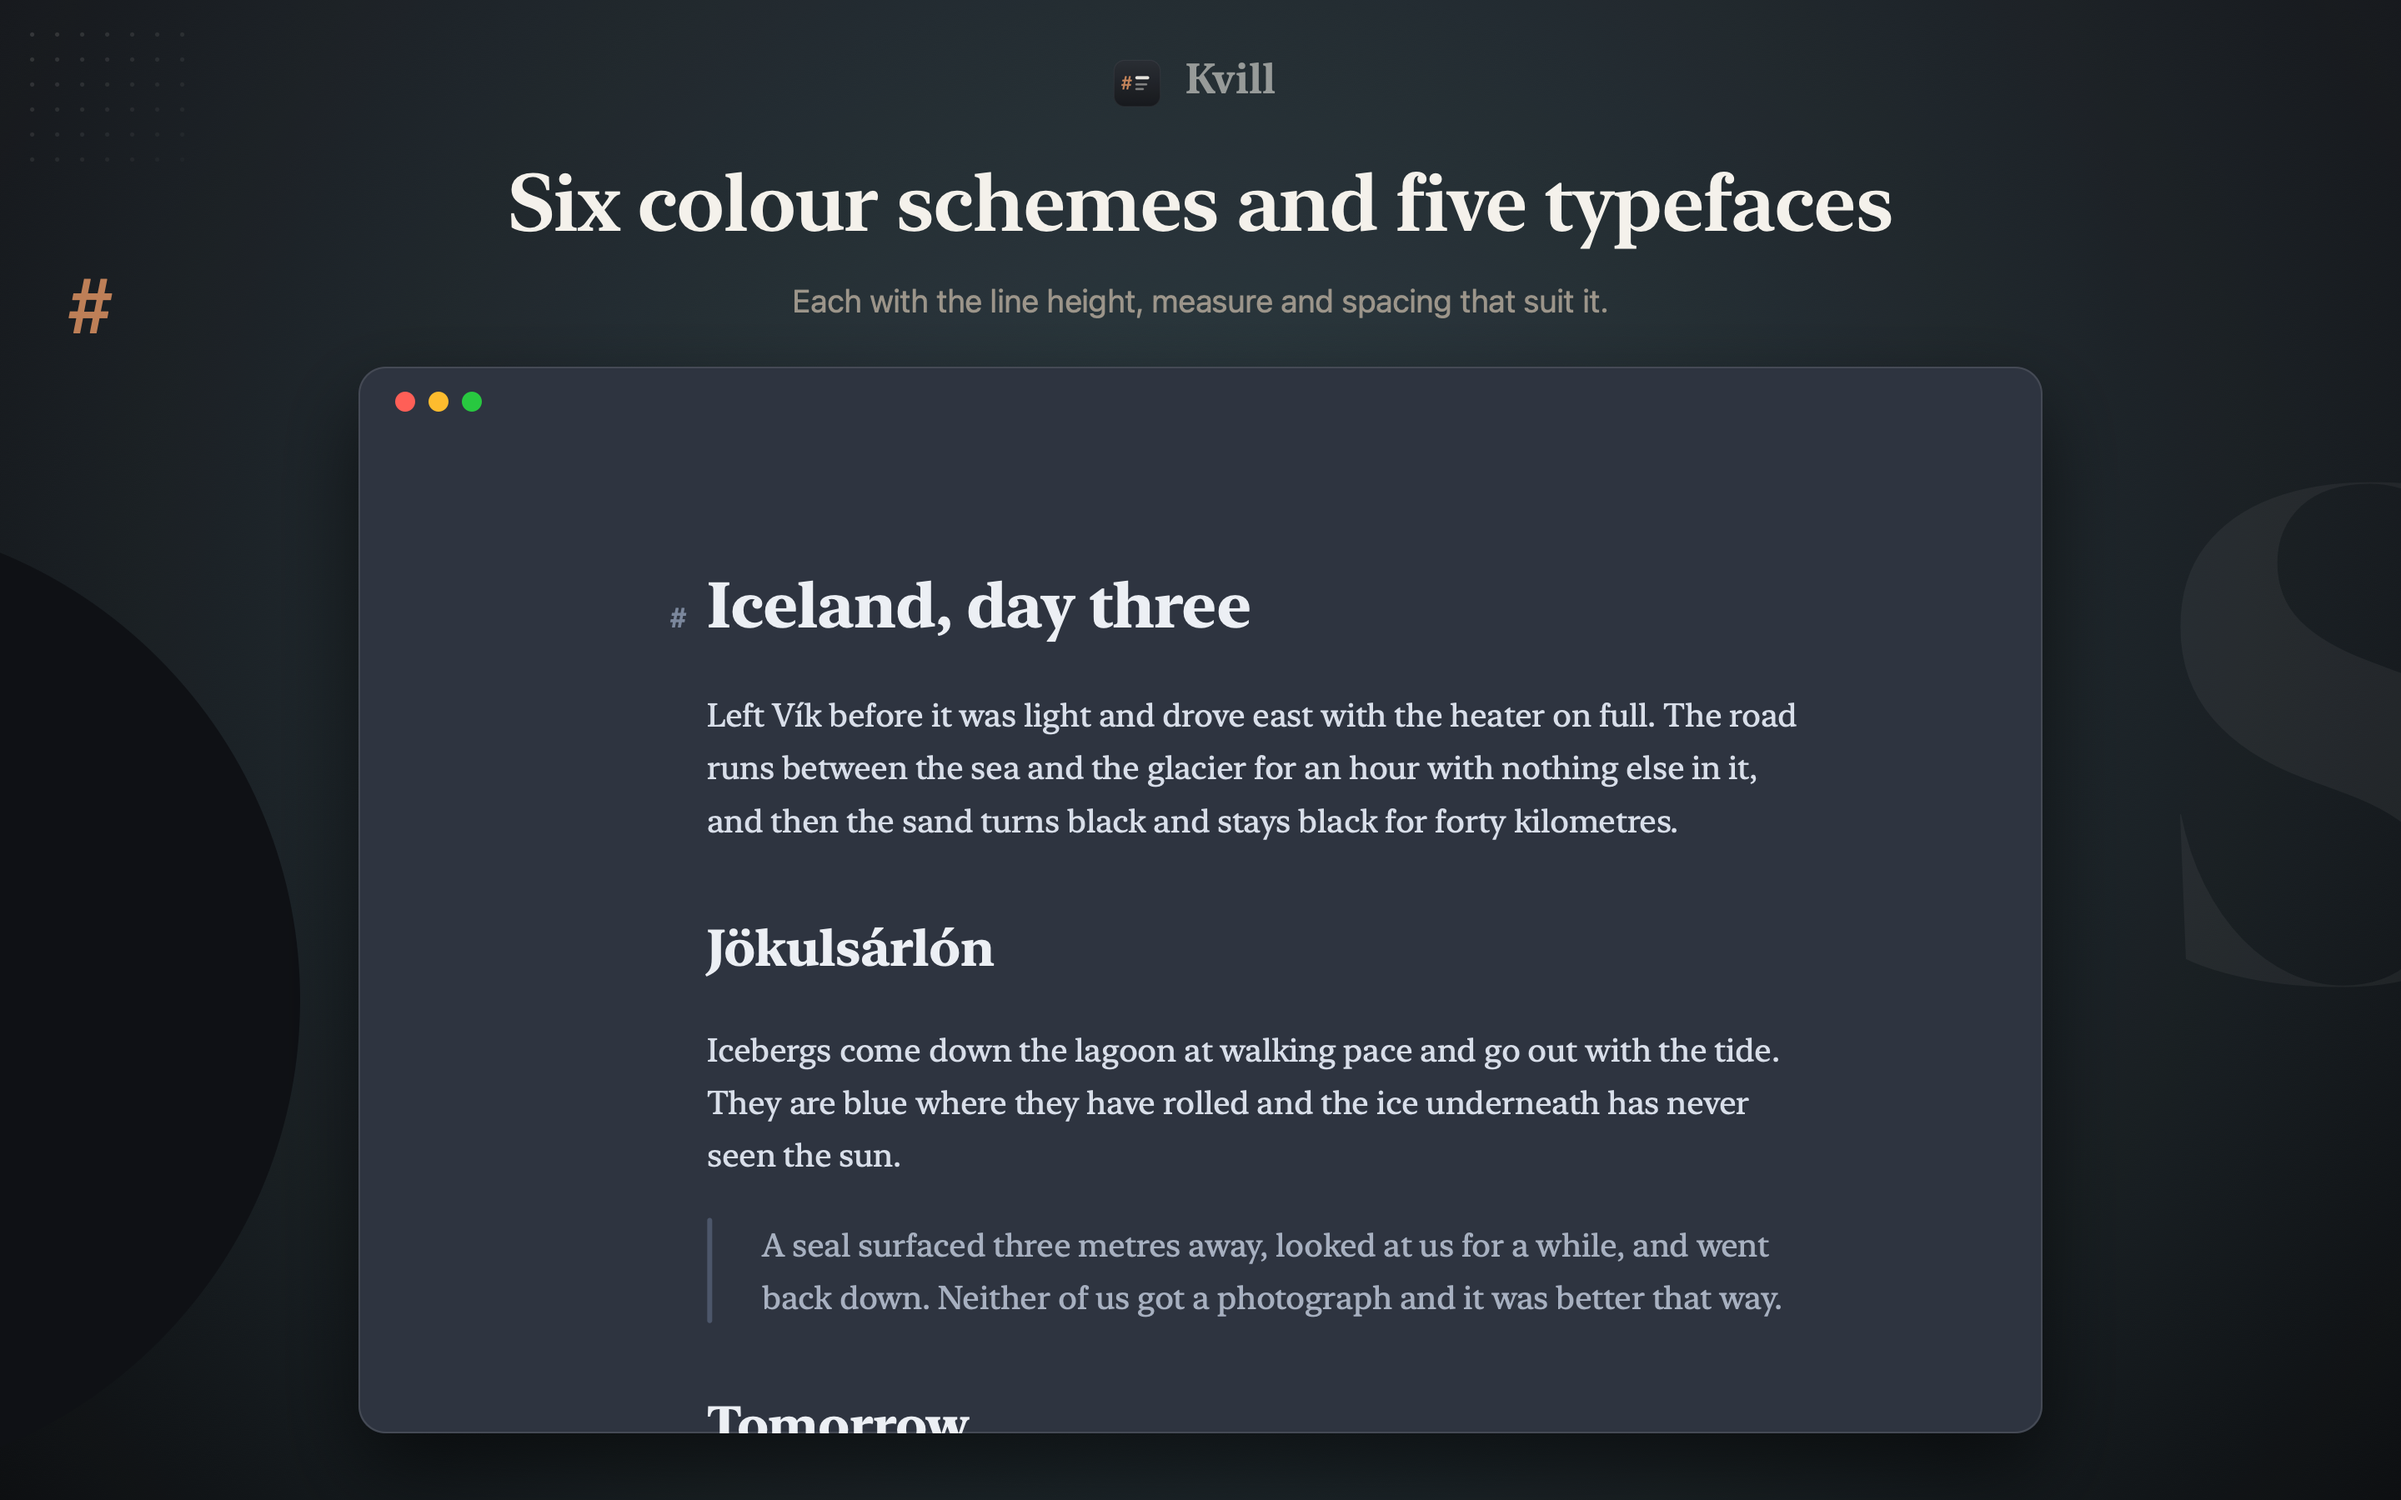
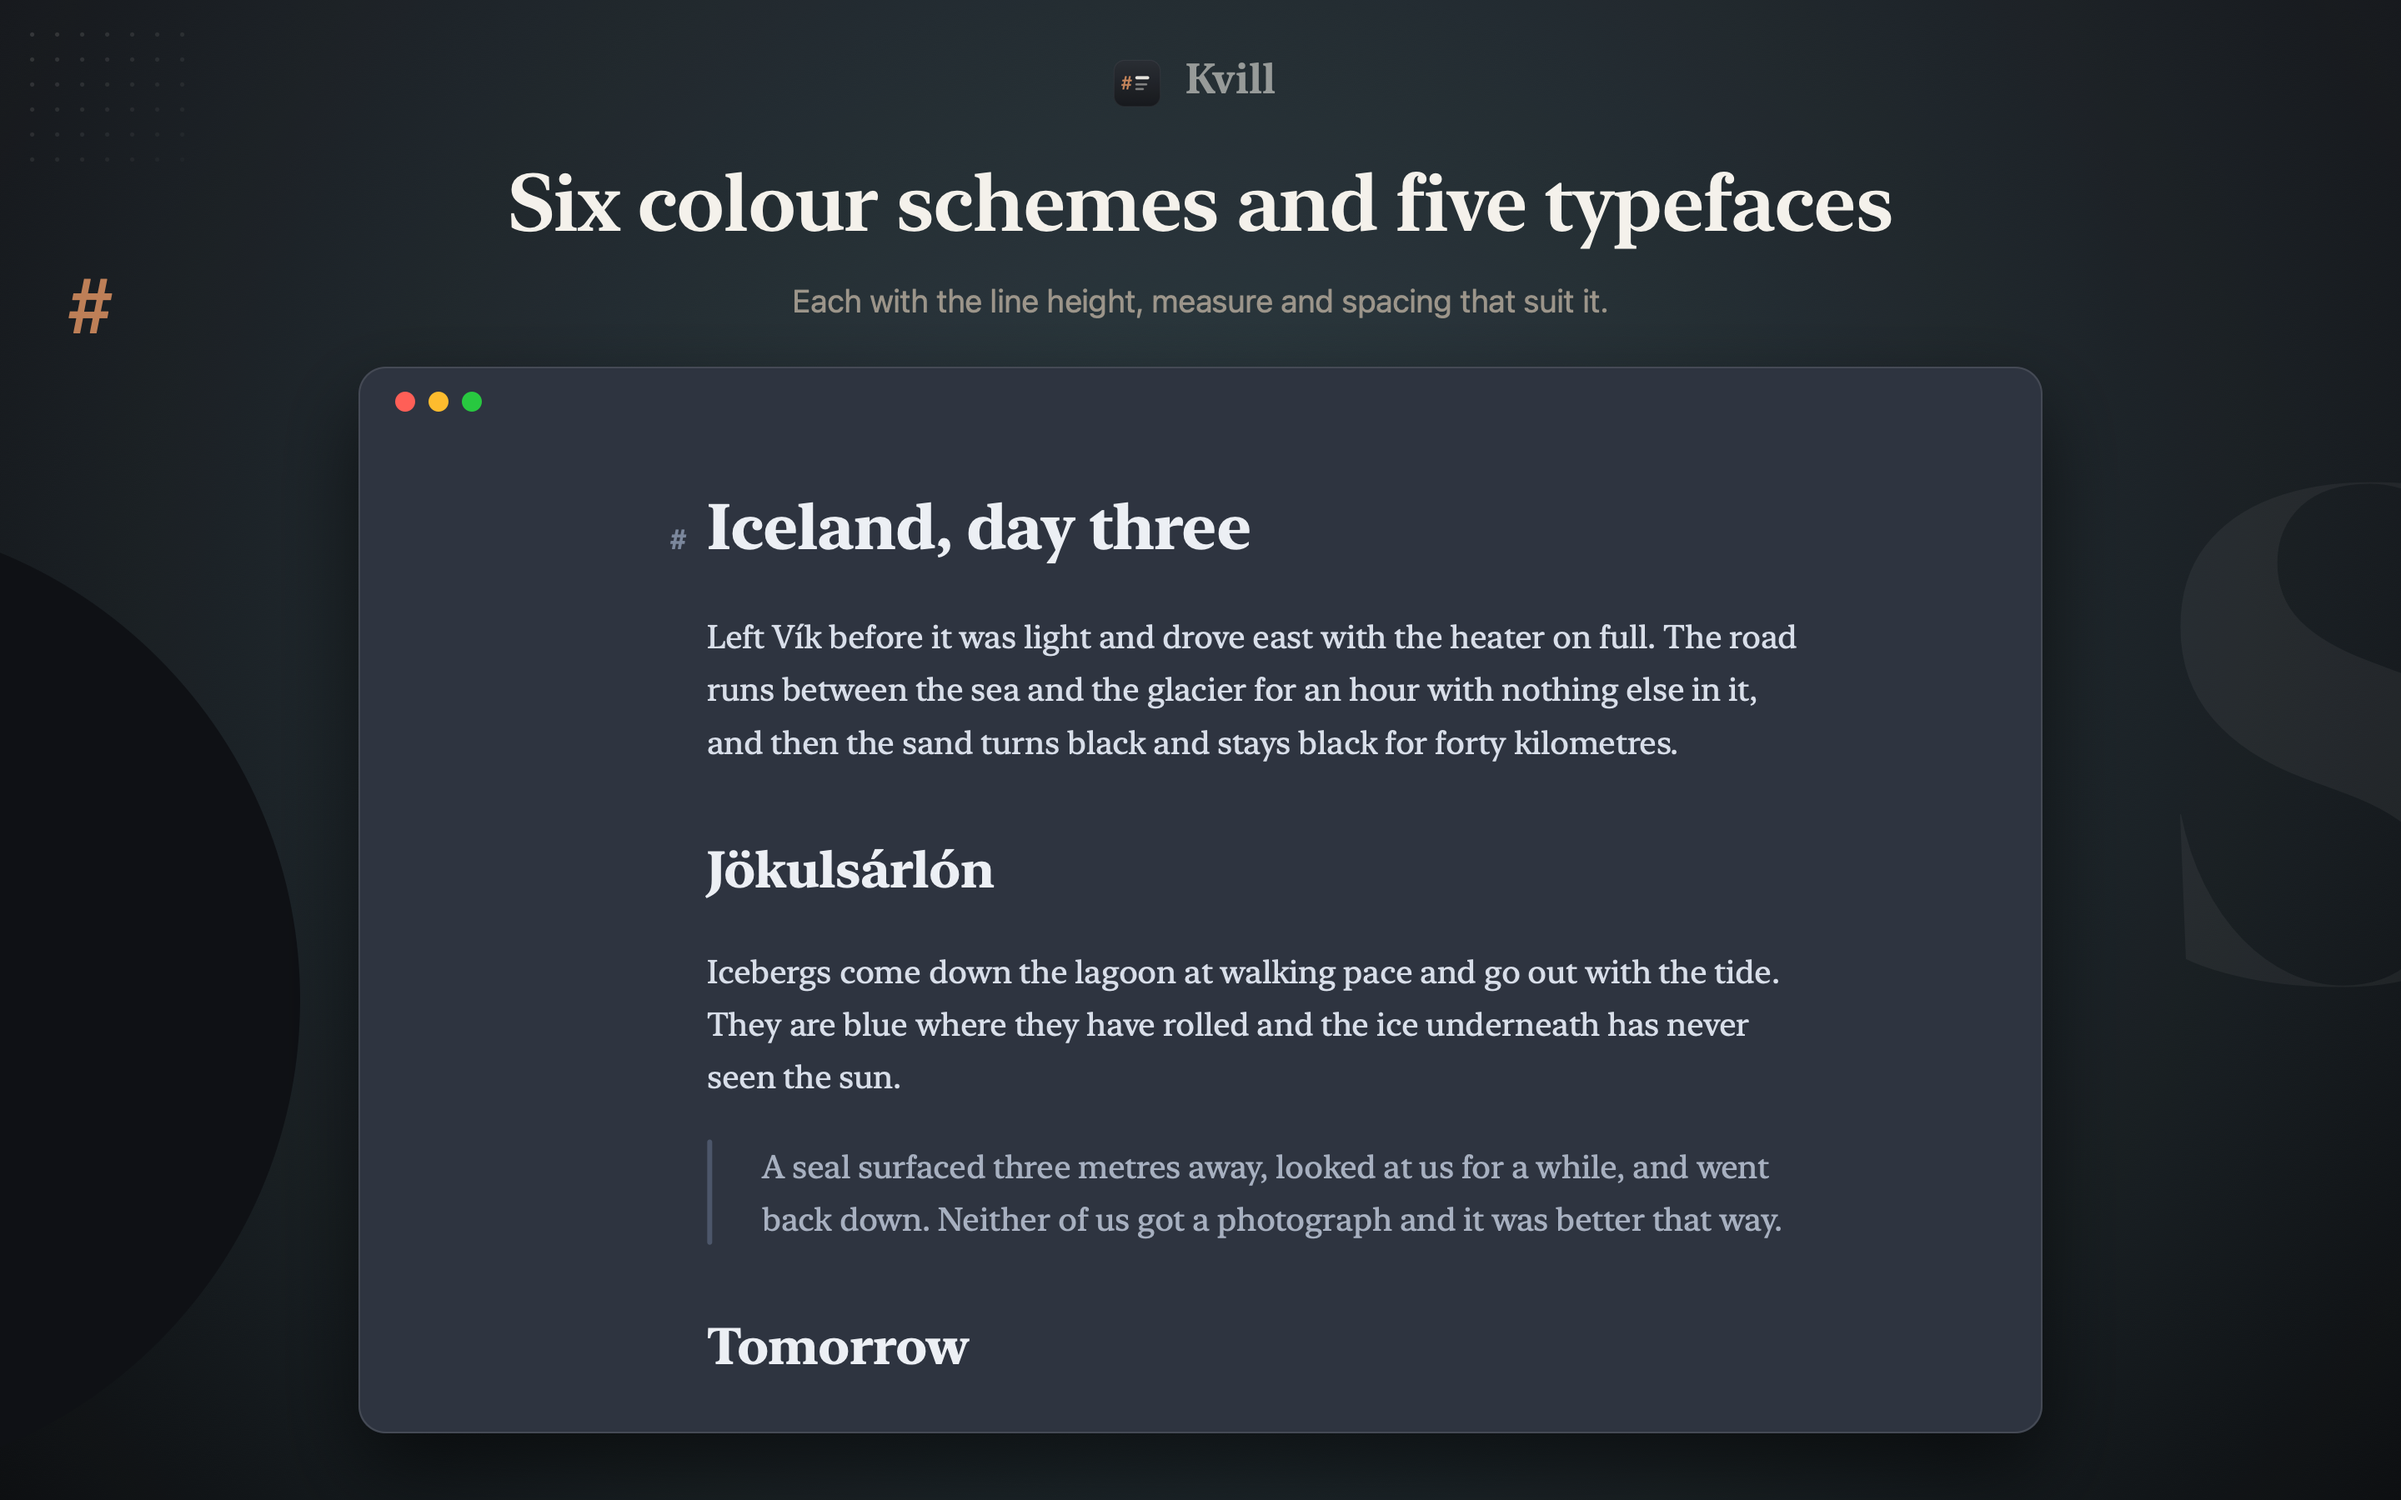
An audit of every combination, and the two things it found
Rendered the whole grammar at six palettes, five typefaces, four sizes,
three measures and two extreme window widths, with markers hidden and shown,
then photographed the real window in fourteen states: plain, sidebar, index,
both, narrow, full screen, options open, About, toast, find, selection, and
two dark ones. Looked at all of them rather than assuming.

Two things were wrong.

A delimiter that opens or closes a drawn panel was hung in the gutter like
any other marker, and the panel starts left of the text column, so it landed
on the border and, at the corners, through the curve of it. Every document
with front matter had --- struck through its panel the moment it opened,
because opening puts the caret in the first block and that is what reveals a
block's markers. ``` did the same whenever the caret was in a code block.
Those two kinds keep their marker on the content column now.

And the page scrolled to the caret whenever the text reflowed. NSTextView
does it from inside its private _setFrameSize:forceScroll:, so turning the
index on moved a freshly opened document 68 points down, and so did opening
a folder, and so did full screen. Held in place now, but only on a width
change: a height change is the document growing as someone types, and
following the caret there is exactly right.

Measured against the commit before today rather than assumed: 79.7ms a
keystroke against 79.0 before, 68ms to first screen against 70, binary
[…]

Changed region(s): [[0.2812, 0.6222, 0.75, 0.9644], [0.2812, 0.3422, 0.75, 0.5911]]

diff --git a/Sources/Kvill/Editor/EditorTextView.swift b/Sources/Kvill/Editor/EditorTextView.swift
@@ -209,6 +209,26 @@ final class EditorTextView: NSTextView {
 
     // MARK: - Drawing
 
+    /// Stays where the reader left it when the text reflows.
+    ///
+    /// `NSTextView` scrolls to the insertion point from inside its private
+    /// `_setFrameSize:forceScroll:`, and a width change is what triggers it.
+    /// Every reflow therefore moved the page: turning the index on scrolled a
+    /// freshly opened document 68 points down, which read as the page having
+    /// been left half way through.
+    ///
+    /// Only on a width change. A height change is the document growing as
+    /// someone types, and following the caret there is exactly right.
+    override func setFrameSize(_ newSize: NSSize) {
+        let reflowed = abs(newSize.width - frame.width) > 0.5
+        let clip = enclosingScrollView?.contentView
+        let origin = clip?.bounds.origin
+        super.setFrameSize(newSize)
+        guard reflowed, let clip, let origin, clip.bounds.origin != origin else { return }
+        clip.setBoundsOrigin(origin)
+        enclosingScrollView?.reflectScrolledClipView(clip)
+    }
+
     /// Stays where the reader left it when the window changes size.
     ///
     /// `NSTextView` scrolls to the insertion point at the end of a live resize,

diff --git a/Sources/Kvill/Editor/MarkdownStyler.swift b/Sources/Kvill/Editor/MarkdownStyler.swift
@@ -98,6 +98,16 @@ final class MarkdownStyler {
         var markerX = contentX - effectiveGap - markerWidth
         if markerX < 0 { markerX = 0 }
 
+        // A delimiter that opens or closes a drawn panel stays inside it.
+        //
+        // Hanging it in the gutter is right for a heading's # or a list's -,
+        // which sit in the margin beside their text. It is wrong for ``` and
+        // for front matter's ---, because the panel starts left of the text
+        // column and the marker lands on its border: with the caret in the
+        // first block, which is where it is the moment a document opens, every
+        // front matter panel had --- struck through its rounded corner.
+        if line.kind.opensADrawnPanel { markerX = contentX }
+
         // A line that is only an image becomes the picture itself, with whatever
         // text the line holds falling to the bottom of the block as its caption.
         let image = imageDisplay(for: line)

diff --git a/Sources/Kvill/Markdown/MarkdownModel.swift b/Sources/Kvill/Markdown/MarkdownModel.swift
@@ -50,6 +50,19 @@ enum BlockKind: Equatable {
         default: return false
         }
     }
+
+    /// Whether this line is the top or bottom edge of a block the editor draws a
+    /// panel around.
+    ///
+    /// Its marker stays inside the panel rather than hanging in the gutter. The
+    /// panel starts left of the text column, so a hanging ``` or --- lands on
+    /// the panel's border and, at the corners, through the curve of it.
+    var opensADrawnPanel: Bool {
+        switch self {
+        case .fenceDelimiter, .frontMatterDelimiter: return true
+        default: return false
+        }
+    }
 }
 
 enum TaskState: Equatable {

diff --git a/Sources/Kvill/UI/DocumentViewController.swift b/Sources/Kvill/UI/DocumentViewController.swift
@@ -9,7 +9,8 @@ final class DocumentViewController: NSViewController {
 
     let editor = EditorViewController()
     private let stats = StatsPillView()
-    private let optionsBar = DisplayOptionsBar()
+    /// The display options pill. Reachable so the audit shots can open it.
+    let optionsBar = DisplayOptionsBar()
     /// Opens and closes the sidebar. Mirrors the options button on the other
     /// side, at the same height, so the two top corners match.
     private let sidebarToggle = SidebarToggleButton()

diff --git a/CLAUDE.md b/CLAUDE.md
@@ -55,7 +55,13 @@ Measured on this machine, and worth re-measuring rather than trusting:
 | Cold launch to a window on screen | ~280ms |
 | Warm open, app already running | ~100ms |
 | `--benchmark` to first screen | 65-85ms |
-| `--benchmark` per keystroke | 32ms at 2KB, 94ms at 180KB |
+| `--benchmark` per keystroke | 7ms on plain prose, 79ms on a dense page, 94ms at 180KB |
+
+**The keystroke cost scales with decorations, not with bytes.** 167 bytes of
+plain prose costs 7ms. A 1.8KB page holding six heading levels, four lists, five
+callouts, three code blocks and a table costs 79ms. Both measured on the same
+build in the same minute. Quoting a per-keystroke figure without saying what was
+in the file says nothing at all.
 
 **Anything that moves these is a change to the product.** A feature that adds a
 megabyte, or ten milliseconds to a keystroke, has to be worth that on its own
